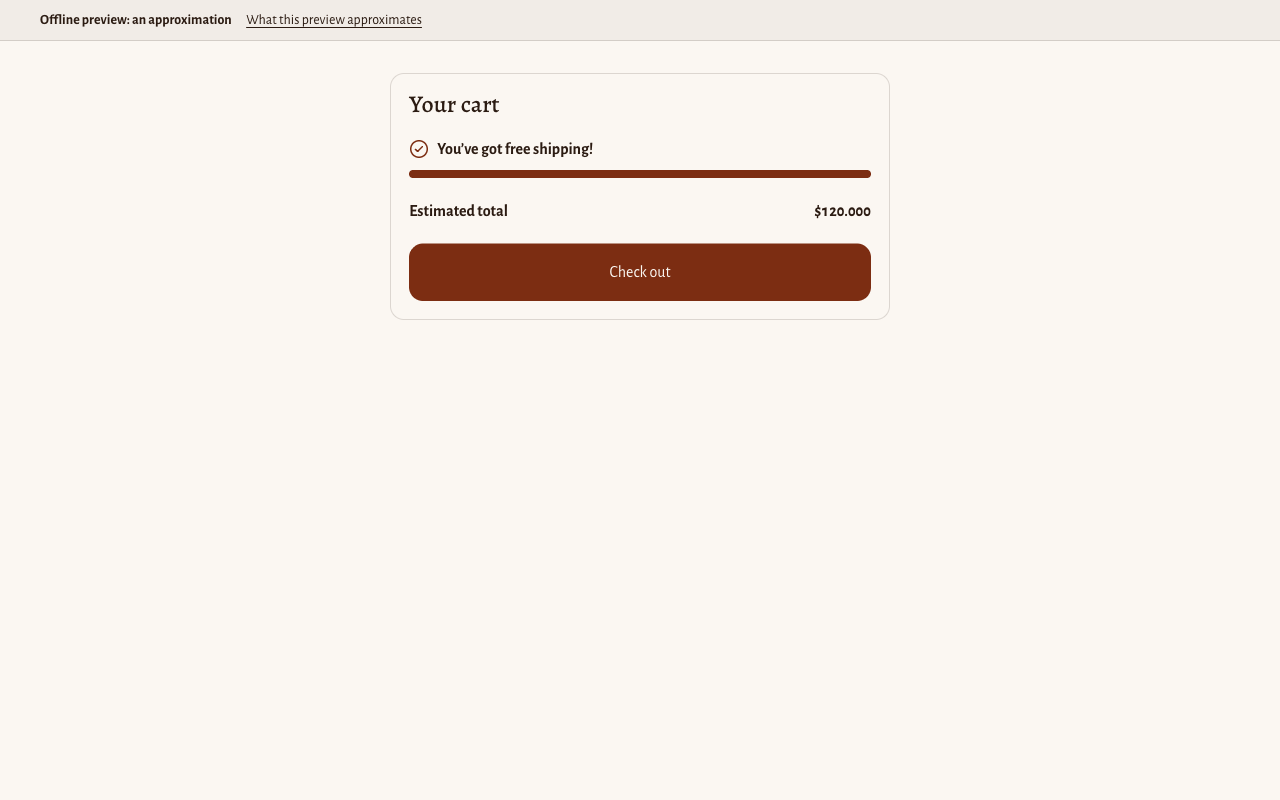
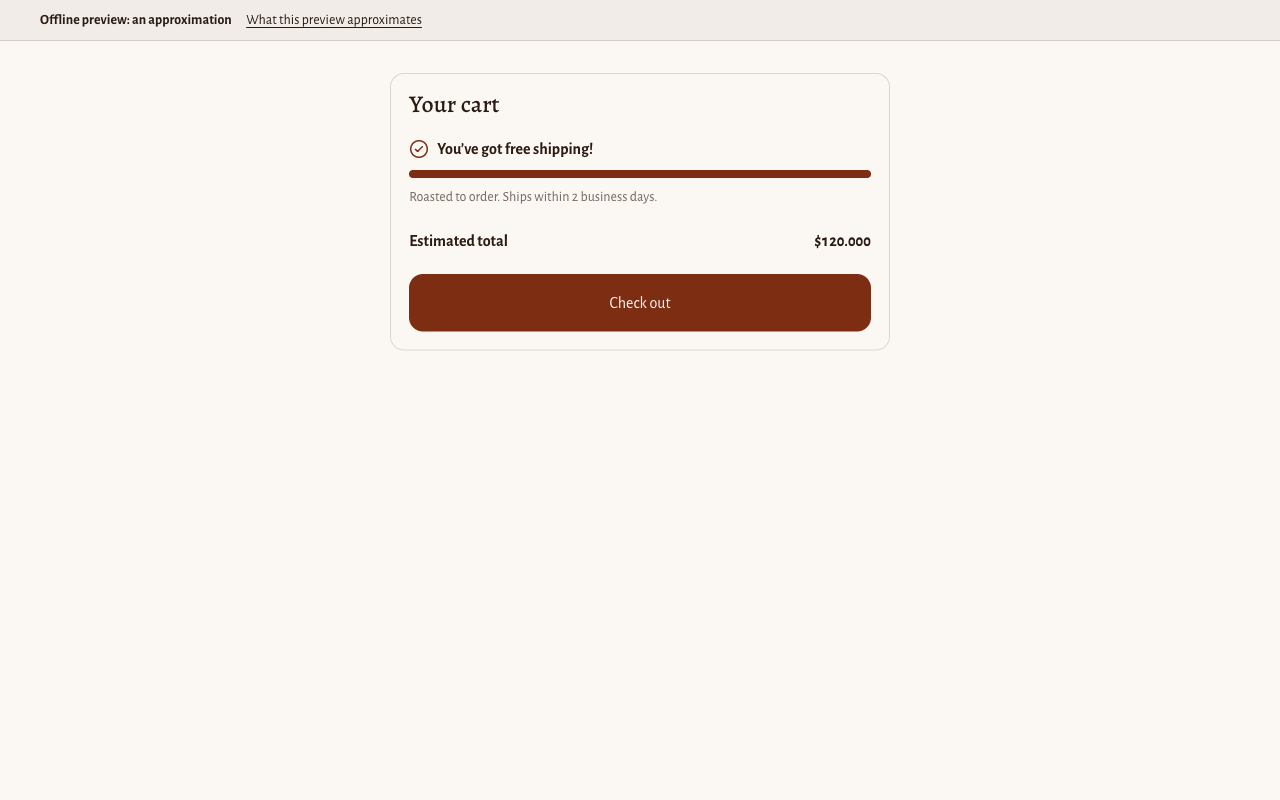
docs: retake screenshots and update the live checks

Changed region(s): [[0.3125, 0.2188, 0.6875, 0.3438], [0.3125, 0.375, 0.6875, 0.4375]]

diff --git a/theme/README.md b/theme/README.md
@@ -54,10 +54,9 @@ shipping threshold, updating live as the cart changes.
   `THEME_ENTRIES` into `theme/assets/free-shipping-bar.js` (generated; never hand-edited).
 - `theme/snippets/free-shipping-bar.liquid` — renders the `<free-shipping-bar>` markup from the
   Theme contracts' DOM contract, reads the settings below (each blank message falling back to its
-  translation; see Translations), and loads the bundled script. The first
-  render is server-side: the message, the fill, `aria-valuenow`, `aria-valuetext`, and
-  `data-state` (`remaining` or `reached`) are already right before the script runs, so nothing
-  starts empty or shifts.
+  translation; see Translations), and loads the bundled script. The first render is server-side: the
+  message, the fill, `aria-valuenow`, and `data-state` (`remaining` or `reached`) are already right
+  before the script runs, so nothing starts empty or shifts.
 
 **Insertions** (`scripts/lib/theme-insertions.data.ts`'s `INSERTIONS`):
 
@@ -65,19 +64,24 @@ shipping threshold, updating live as the cart changes.
    on its own line, anchored immediately before `<div class="cart-totals">` (that line appears
    exactly once in Horizon's file).
 2. `config/settings_schema.json`: an `append-settings-group` insertion adding the group "Free
-   shipping bar" (`t:nubandina.free_shipping_bar.name`) with five settings:
+   shipping bar" (`t:nubandina.free_shipping_bar.name`) with seven settings:
    `free_shipping_bar_enabled` (checkbox, default on), `free_shipping_threshold` (number, default
    120000), `free_shipping_message_remaining` (text, `[amount]` placeholder),
-   `free_shipping_message_reached` (text), and `free_shipping_progress_label` (text, the progress
-   bar's accessible label). Every label and info text is a `t:` key, and the three texts have no
-   default: left blank, each shows its storefront translation.
+   `free_shipping_message_reached` (text), `free_shipping_progress_label` (text, the progress bar's
+   accessible label), `reassurance_enabled` (checkbox, default on), and `reassurance_text` (text,
+   the line under the bar and under the coffee finder's results). Every label and info text is a
+   `t:` key, and the four texts have no default: left blank, each shows its storefront translation.
 
-**States and accessibility.** The track is a `role="progressbar"` with `aria-valuenow` (the
-percent), `aria-valuetext` (the same message the bar shows), and the progress label setting as its
-name. At the threshold, `data-state="reached"` shows a check icon (inline SVG, `aria-hidden`, since
-the message already says it) and sets the message in bold. The fill is a full-width bar slid into
-place with `transform`, transitioned only under `prefers-reduced-motion: no-preference`. The script
-writes the message and attributes only when they change, so the polite live region doesn't
+**States and accessibility.** The track is a `role="progressbar"` with `aria-valuenow` (the percent)
+and the progress label setting as its name. It has no `aria-valuetext`, so the message is spoken
+once, by its polite live region, and never twice. Under the track, a muted reassurance line
+("Roasted to order. Ships within 2 business days.") comes from `reassurance_text` or its
+translation, in Horizon's muted-text opacity; the coffee finder shows the same line under its
+results, and unticking `reassurance_enabled` hides both, since a blank text only falls back to the
+translation. At the threshold, `data-state="reached"` shows a check icon (inline SVG, `aria-hidden`,
+since the message already says it) and sets the message in bold. The fill is a full-width bar slid
+into place with `transform`, transitioned only under `prefers-reduced-motion: no-preference`. The
+script writes the message and attributes only when they change, so the polite live region doesn't
 re-announce what the server already rendered.
 
 **Staying live.** The bar updates two ways: it listens on `document` for
@@ -120,13 +124,19 @@ two coffees from product metafields, and adds the chosen bag to the cart.
 **Layout and states.** Mobile first: each answer is a full-width option at least 48px tall, the
 whole option clickable; from 750px the three answers sit side by side, and from 990px the intro
 stays beside the form. A chosen option takes the primary color as its border and a light tint.
-Submitting with a question unanswered marks that question's options, sets `aria-invalid` and
-`aria-describedby` on its radios, shows the "Unanswered question message" setting in a
-`role="alert"` region beside the button, and moves focus to the first unanswered question; answering
-it clears the mark. Results come in as cards (image, linked title, notes, size, price, and an "Add
-to cart" button); with no match, the "No match text" shows with a link to every coffee. While an
-add is in flight, the button shows a small spinning ring (static under reduced motion). The card's
-status line says whether the add worked, styled by `data-state="success"` or `"error"`.
+Submitting with a question unanswered marks that question's options, shows its own "Choose one
+answer." line under the question, sets `aria-invalid` and an `aria-describedby` naming that line and
+the summary on its radios, shows the "Unanswered question message" setting in a `role="alert"`
+region beside the button, and moves focus to the first unanswered question; answering it clears the
+mark and hides its line. Results come in as cards (image with a 400 and 800 pixel `srcset`, linked
+title, notes, size, price, and an "Add to cart" button). One line under the results heading says why
+the size fits ("Sized for three or more people"); it is hidden when a sold-out bag made any card
+fall back to another size, so it never contradicts the bag shown. With no match, the heading changes
+to "No exact match" and the text below it names the favorites shown, two, one, or none, with a link
+to every coffee. The favorites are the first available coffees of the collection, in the size the
+answer implies. A reassurance line shows under the results. While an add is in flight, the button
+shows a small spinning ring (static under reduced motion). The card's status line says whether the
+add worked, styled by `data-state="success"` or `"error"`.
 
 **Insertions** (`scripts/lib/theme-insertions.data.ts`'s `INSERTIONS`):
 
@@ -156,14 +166,15 @@ shows the error text and re-enables the add button.
 
 **Accessibility.** Each question is a native `<fieldset>` with a `<legend>` and radio inputs (the
 question number before each legend is CSS-generated with empty alternative text, so it isn't read
-out); the whole option shows the focus ring, and the radio's own ring is dropped only where
-`:has()` can draw that replacement. The results region is `aria-live="polite"`; submitting moves
-focus to the results heading (`tabindex="-1"`, since it isn't otherwise focusable), which shows a
-focus ring when reached by keyboard. Each card's title is a link to the product. The add button
-sets `aria-busy` while the request is in flight, instead of `disabled`, which would drop keyboard
-focus to the page; a second press while busy does nothing. Each card's add button carries the
-product and variant name in a visually-hidden span inside it, so its accessible name names the
-coffee, and its status line is a `role="status"` region. The card template's image has `alt=""`.
+out); the whole option shows the focus ring, and the radio's own ring is dropped only where `:has()`
+can draw that replacement. The results region is not a live region, so it never announces on top of
+the focus move; submitting moves focus to the results heading (`tabindex="-1"`, since it isn't
+otherwise focusable), which shows no outline box because it isn't a control. Each card's title is a
+link to the product. The add button sets `aria-busy` while the request is in flight, instead of
+`disabled`, which would drop keyboard focus to the page; a second press while busy does nothing.
+Each card's add button carries the product and variant name in a visually-hidden span inside it, so
+its accessible name names the coffee, and its status line is a `role="status"` region. The card
+template's image has `alt=""`.
 
 **Limitations:**
 
@@ -246,10 +257,10 @@ English, and Spanish exists only in the translation files.
 `locales/es.json` would replace Horizon's whole file) holds four partial Shopify locale files, each
 with a single top-level key, `nubandina`:
 
-- `en.default.json` and `es.json` — storefront strings: the coffee finder's 22 texts and the
-  free-shipping bar's three, including the status and error messages the scripts read from data
-  attributes (`data-message`, `data-added`, `data-error`, `data-message-remaining`,
-  `data-message-reached`).
+- `en.default.json` and `es.json` — storefront strings: the coffee finder's 28 texts, the
+  free-shipping bar's three, and the shared reassurance line, including the status and error
+  messages the scripts read from data attributes (`data-message`, `data-added`, `data-error`,
+  `data-message-remaining`, `data-message-reached`).
 - `en.default.schema.json` and `es.schema.json` — the theme editor's labels and help text, which
   the section schema and the free-shipping settings group reference as `t:nubandina.…`.
 
@@ -372,7 +383,8 @@ asserts the Spanish text and that none of this repo's English strings is left in
 ## Screenshots
 
 From the offline preview, so an approximation of the storefront (see above). Each is 390 × 844 and
-1280 × 800.
+1280 × 800, except the laptop finder results, which are 1280 × 1160 so all three
+questions show above the cards.
 
 | | 390 × 844 | 1280 × 800 |
 | --- | --- | --- |
@@ -465,8 +477,8 @@ run yet:
   checkout charges 0 shipping.
 - **Disabled.** A blank threshold, or unticking "Show the free shipping bar", hides the bar with no
   console errors.
-- **Screen reader.** VoiceOver reads the bar as "Progress toward free shipping" with its message as
-  the value, and announces the new message once after a cart change, not on page load.
+- **Screen reader.** VoiceOver reads the bar as "Progress toward free shipping" with its percent as
+  the value, and announces a cart change once, never on page load.
 
 ### Coffee finder (deferred live checks)
 
@@ -474,10 +486,12 @@ These need `pnpm dlx @shopify/cli@5.0.0 theme dev` against `.theme-build/theme`,
 Chrome DevTools open, so they haven't been run yet:
 
 - **Keyboard path.** Tab reaches each radio group and arrow keys move within it. Submitting
-  "Pour-over / Mild and bright / Just me" moves focus to "Our pick for you", which shows one card:
-  Nariño 250 g, its price, and its notes.
+  "Pour-over / Mild and bright / Just me" moves focus to "Our pick for you", with no outline box,
+  and shows one card: Nariño 250 g, its price, and its notes, with "Sized for one or two people"
+  under the heading.
 - **Unanswered question.** Submitting with only a brew method chosen marks the other two questions,
-  announces "Choose an answer for each question.", and moves focus to the taste question.
+  announces "Choose an answer for each question.", shows "Choose one answer." under each, and moves
+  focus to the taste question.
 - **Adding to cart.** "Add to cart" with Enter shows the busy ring, keeps focus on the button,
   opens the cart drawer, and the free-shipping bar reflects the new total.
 - **Second option.** "Espresso / Mild and bright / Three or more" shows two cards, Sierra Nevada

diff --git a/README.md b/README.md
@@ -24,13 +24,13 @@ The order lifecycle, step by step, is the sequence diagram in [docs/architecture
 - Records **each order once** in Postgres before any side effect, so a repeated delivery does nothing.
 - Writes one **Google Sheets row** per order and emails the **owner** a summary.
 - Reads stock from Shopify and emails a **low-stock alert** for each tracked variant left under the threshold.
-- **Waits** in Postgres (60 minutes by default, surviving a restart), then emails the customer a **brewing guide** for each brew method in the order, in the customer's language.
+- **Waits** in Postgres (60 minutes by default, surviving a restart), then emails the customer a **brewing guide** for each brew method in the order, in the customer's language, in a branded email with a "Shop again" button.
 - Emails the owner an **error alert** with the failed node and an execution link when any step fails.
 
-![The coffee finder's recommendations on a laptop: two coffee cards with photos, notes, prices, and Add to cart buttons beside the three answered questions](docs/screenshots/finder-results-1280.png)
+![The coffee finder's recommendations on a laptop: two coffee cards with photos, notes, prices, and Add to cart buttons under the three answered questions](docs/screenshots/finder-results-1280.png)
 
 <details>
-<summary>All storefront screenshots (offline preview, 390 × 844 and 1280 × 800)</summary>
+<summary>All storefront screenshots (offline preview, 390 × 844 and 1280 × 800; the laptop finder results are 1280 × 1160 so all three questions show above the cards)</summary>
 
 | | 390 × 844 | 1280 × 800 |
 | --- | --- | --- |
@@ -108,7 +108,7 @@ Everything under "Verified offline" runs in CI or locally with no third-party ac
 | Types, lint, and every Vitest suite ([`docs/testing.md`](docs/testing.md)) | `pnpm run typecheck && pnpm run lint && pnpm test` | All pass, including the coffee finder and the free-shipping bar run in happy-dom |
 | Code nodes match their TypeScript, and workflow hygiene | `pnpm run build:workflows -- --check && pnpm run check` | No drift, no violations |
 | Shopify's theme check on the assembled theme | `pnpm run theme:check` | `failing: 0` across this repo's 5 added and 62 modified files; Horizon's own baseline is printed, not asserted |
-| Accessibility of both components | `pnpm run theme:preview` (add `-- --locale es`), `python3 -m http.server 8765 --directory .theme-build/preview`, then open <http://localhost:8765> in Chrome at 390 and 1280 px and run the [axe DevTools](https://www.deque.com/axe/devtools/) extension's full-page scan (axe-core 4.14.0) in each state | No violations in either component, or on the page, in any state at 390 and 1280 px; a focus ring at every stop of the finder's keyboard path |
+| Accessibility of both components | `pnpm run theme:preview` (add `-- --locale es`), `python3 -m http.server 8765 --directory .theme-build/preview`, then open <http://localhost:8765> in Chrome at 390 and 1280 px and run the [axe DevTools](https://www.deque.com/axe/devtools/) extension's full-page scan (axe-core 4.14.0) in each state | No violations in either component, or on the page, in any state at 390 and 1280 px; a focus ring at every interactive stop of the finder's keyboard path (the results heading takes focus without a ring) |
 | The published workflow chain executes | CI's `n8n` job | Boots n8n and Postgres, runs `pnpm run setup`, and calls `load-config` and `intake-order` through the dev harness; the `es-CO` fixture order comes back with locale `es` |
 | Least-privilege database role | `node scripts/check-db.ts` | Only `ok` lines: `app_runtime` holds `SELECT, INSERT` on `orders` and nothing else |
 | The harness's response shapes | `node scripts/check-dev-response.ts` | Exits 0 |
@@ -205,18 +205,31 @@ It runs Lighthouse's mobile defaults 5 times per theme, alternating, and prints 
 - **Live updates.** Raising the quantity to 4 (152,000 COP) switches it to "You’ve got free shipping!" without a reload, in the drawer and on `/cart`. Lowering it again restores the remaining message.
 - **Boundary.** Huila 250 g plus Huila 500 g (exactly 120,000 COP) shows the reached message, and checkout charges 0 shipping.
 - **Disabled.** A blank threshold, or unticking "Show the free shipping bar", hides the bar with no console errors.
-- **Screen reader.** VoiceOver reads the bar as "Progress toward free shipping" with its message as the value, and announces a cart change once, never on page load.
-- **Keyboard path.** Tab reaches each radio group and arrow keys move within it. Submitting "Pour-over / Mild and bright / Just me" moves focus to "Our pick for you", which shows one card: Nariño 250 g, its price, and its notes.
-- **Unanswered question.** Submitting with only a brew method chosen marks the other two questions, announces "Choose an answer for each question.", and moves focus to the taste question.
+- **Screen reader.** VoiceOver reads the bar as "Progress toward free shipping" with its percent as the value, and announces a cart change once, never on page load.
+- **Keyboard path.** Tab reaches each radio group and arrow keys move within it. Submitting "Pour-over / Mild and bright / Just me" moves focus to "Our pick for you", with no outline box, and shows one card: Nariño 250 g, its price, its notes, and "Sized for one or two people" once under the heading.
+- **Unanswered question.** Submitting with only a brew method chosen marks the other two questions, announces "Choose an answer for each question.", shows "Choose one answer." under each, and moves focus to the taste question.
 - **Adding to cart.** "Add to cart" with Enter shows the busy ring, keeps focus on the button, opens the cart drawer, and the free-shipping bar reflects the new total.
 - **Second option.** "Espresso / Mild and bright / Three or more" shows two cards, Sierra Nevada 500 g and then Nariño 500 g.
 - **Theme editor.** The section can be added to another page, its texts edited, and the section removed, all without code.
 - **No errors.** The console shows no errors, and `Shopify.actions` is present. Note it if it's absent: the Cart AJAX fallback then handles "Add to cart".
+- **Reassurance line.** "Roasted to order. Ships within 2 business days." shows under the bar and under the finder's results, and in Spanish on `/es`. Unticking "Show the reassurance line" in the theme settings hides both.
 - **Brand.** The theme editor shows the six palette colors and the Alegreya fonts, both fonts load from Shopify's font CDN, and Horizon's own muted text (the footer copyright) uses the raised 0.65 opacity.
 - **Spanish storefront.** With Spanish published, `/es` shows the finder and the free-shipping bar in Spanish; `theme/README.md` lists the translation checks.
 - **Language selector.** With Spanish published, the header selector switches to `/es`. An order placed there carries `customer_locale` `es` in "Normalize order"'s output, and its guide arrives in Spanish.
 - **Finder after Translate & Adapt.** On `/es`, "Pour-over / Suave y brillante / Solo yo" still shows one card, with Nariño's translated title. Translate & Adapt lists no Spanish value for Roast or Brew method.
 - **Lighthouse.** As under "Theme performance" above. Then open one base and one theme report from `.lighthouse/<date>/` in the [Lighthouse viewer](https://googlechrome.github.io/lighthouse/viewer/) and confirm the final screenshot shows the right theme.
+
+**Guide email and product SEO**
+
+- **Guide email.** Place test order 1 on the storefront and open the guide email in Gmail on the web and on a phone. It shows the Nubandina header, the guide, and a "Shop again" button that opens `https://<store>.myshopify.com/`; a Spanish order shows "Volver a la tienda" linking to `/es`.
+- **Product SEO.** With `.env` loaded (`set -a; . ./.env; set +a`), unlock the password page and read the product:
+
+  ```sh
+  curl -s -c /tmp/sf.jar -d "form_type=storefront_password&password=$SHOPIFY_STOREFRONT_PASSWORD" "https://$SHOPIFY_STORE.myshopify.com/password" >/dev/null
+  curl -s -b /tmp/sf.jar "https://$SHOPIFY_STORE.myshopify.com/products/narino" | grep -E '<title>|name="description"|og:title|application/ld\+json'
+  ```
+
+  The `<title>` and meta description equal the CSV's SEO fields, and an `og:title` and a Product JSON-LD block are present. Delete `/tmp/sf.jar` afterwards.
 
 **From a clean clone**
 
@@ -236,6 +249,7 @@ It runs Lighthouse's mobile defaults 5 times per theme, alternating, and prints 
 
 Deliberate simplifications, each with its ceiling and upgrade path:
 
+- **The guide email has no plain-text part.** n8n's Gmail node sends one body type. Upgrade path: an SMTP credential and the Send Email node's HTML-and-text format.
 - **`intake-order` processes only the first order of a call.** `Process order`'s input reads `.first()` off `Normalize order`'s output, which is exact while a webhook call carries one order, as it does today. Upgrade path: read the order from the current item (`.item`).
 - **Shopify gets its HTTP 200 before the order is recorded.** The Shopify Trigger answers on receipt, so a later failure (a database outage, a bad hand-edited config) shows up only in n8n's executions list, never as a failed delivery in Shopify.
 - **The Shopify trigger needs a valid token at every n8n start.** An invalid or expired one is an activation error, and orders placed meanwhile are lost. Upgrade path: the offline token from `pnpm run shopify:token`, which doesn't expire.

diff --git a/docs/shopify-setup.md b/docs/shopify-setup.md
@@ -40,6 +40,7 @@ Keep these two values in English in every language: see the warning in §10.
 2. Upload `data/products.csv` from this repo.
 3. Confirm the preview shows 3 products and 6 variants, then start the import.
 4. After the import finishes, open each product and confirm its `Roast`, `Tasting notes`, and `Brew method` metafields are filled, and that its image is attached.
+5. Open one product's **Search engine listing**: the CSV fills each product's search-engine title and description (`SEO title`, `SEO description`). Horizon emits the canonical URL, the Open Graph tags and the Product JSON-LD itself; the README's live checks confirm them.
 
 **Note:** the CSV's "Inventory quantity" column only applies to stores with a single location — it sets the starting stock at that location. A multi-location store would need to set stock per location after import instead.
 
